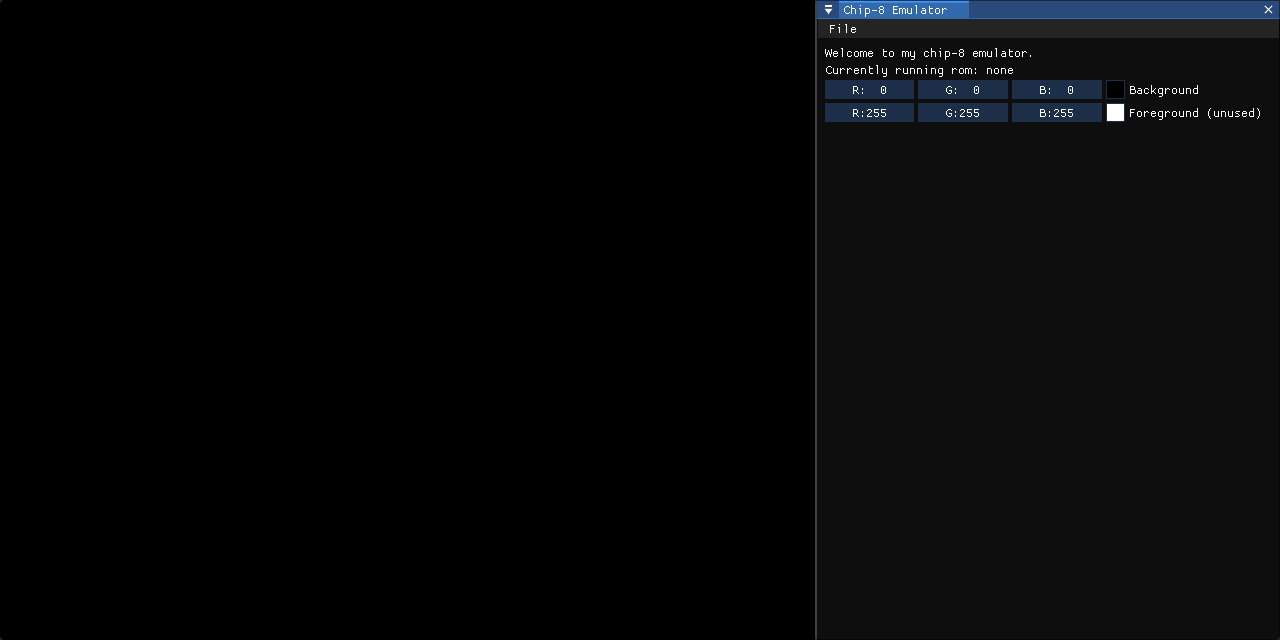
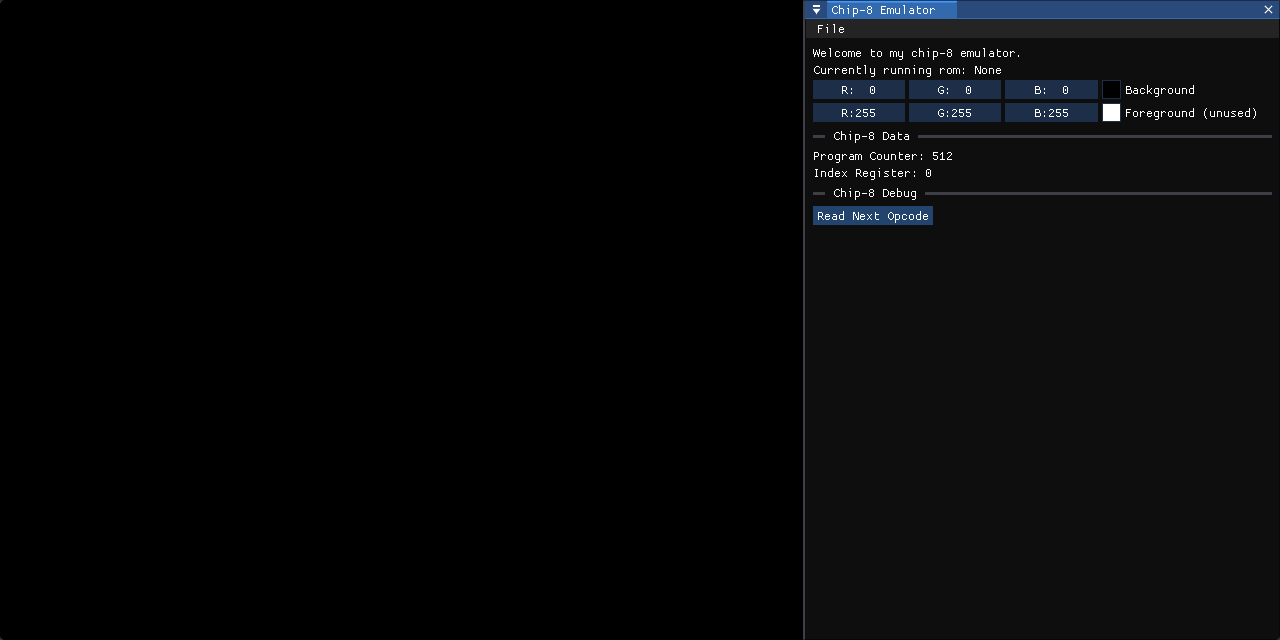
cycle command now grabs the current opcode

Changed region(s): [[0.625, 0.0, 1.0, 0.375]]

diff --git a/src/imgui_window.cpp b/src/imgui_window.cpp
@@ -61,12 +61,17 @@ void showMainWindow(imgui_config& imgui_config, app_config& app_config, sdl_stuf
     // Currently unused
     mainColorPicker3("Foreground (unused)", app_config.fg_color);
 
-    ImGui::Text("Chip-8 Options (DEBUG)");
+    ImGui::SeparatorText("Chip-8 Data");
 
-    uint16_t opcode;
+    ImGui::Text("Program Counter: %i", chip8.pc);
+    ImGui::Text("Index Register: %i", chip8.i);
+
+    ImGui::SeparatorText("Chip-8 Debug");
 
     if (ImGui::Button("Read Next Opcode")) {
-        std::cout << "Read Opcode: " << opcode << "\n";
+        uint16_t opcode;
+        opcode = cycle(chip8);
+        std::cout << std::hex << "Read Opcode: " << std::showbase << opcode << "\n";
     }
 
     ImGui::End();

diff --git a/src/chip8_emu.cpp b/src/chip8_emu.cpp
@@ -30,6 +30,8 @@ bool init_chip8(chip8_emu& chip8) {
     
     chip8.pc = 0x200;  //   Set program counter to start on the chip8 entry point
 
+    chip8.i = 0x0;
+
     chip8.romName = ""; //  ZeroOut the rom name 
 
     std::cout << "Initialized chip8\n";
@@ -66,6 +68,15 @@ bool load_rom(chip8_emu& chip8, std::string romName) {
     return true;
 }
 
-bool cycle(chip8_emu& chip8) {
-    
+u_int16_t cycle(chip8_emu& chip8) {
+    uint16_t opcode;
+
+    uint8_t memory1 = chip8.ram[chip8.pc];
+    uint8_t memory2 = chip8.ram[chip8.pc+1];
+
+    opcode = memory1 << 8 | memory2;
+
+    chip8.pc += 2;
+
+    return opcode;
 }

diff --git a/include/chip8_emu.h b/include/chip8_emu.h
@@ -15,4 +15,4 @@ struct chip8_emu{
 
 bool init_chip8(chip8_emu& chip8);
 bool load_rom(chip8_emu& chip8, std::string rom_name);
-bool cycle(chip8_emu& chip8);
+uint16_t cycle(chip8_emu& chip8);
